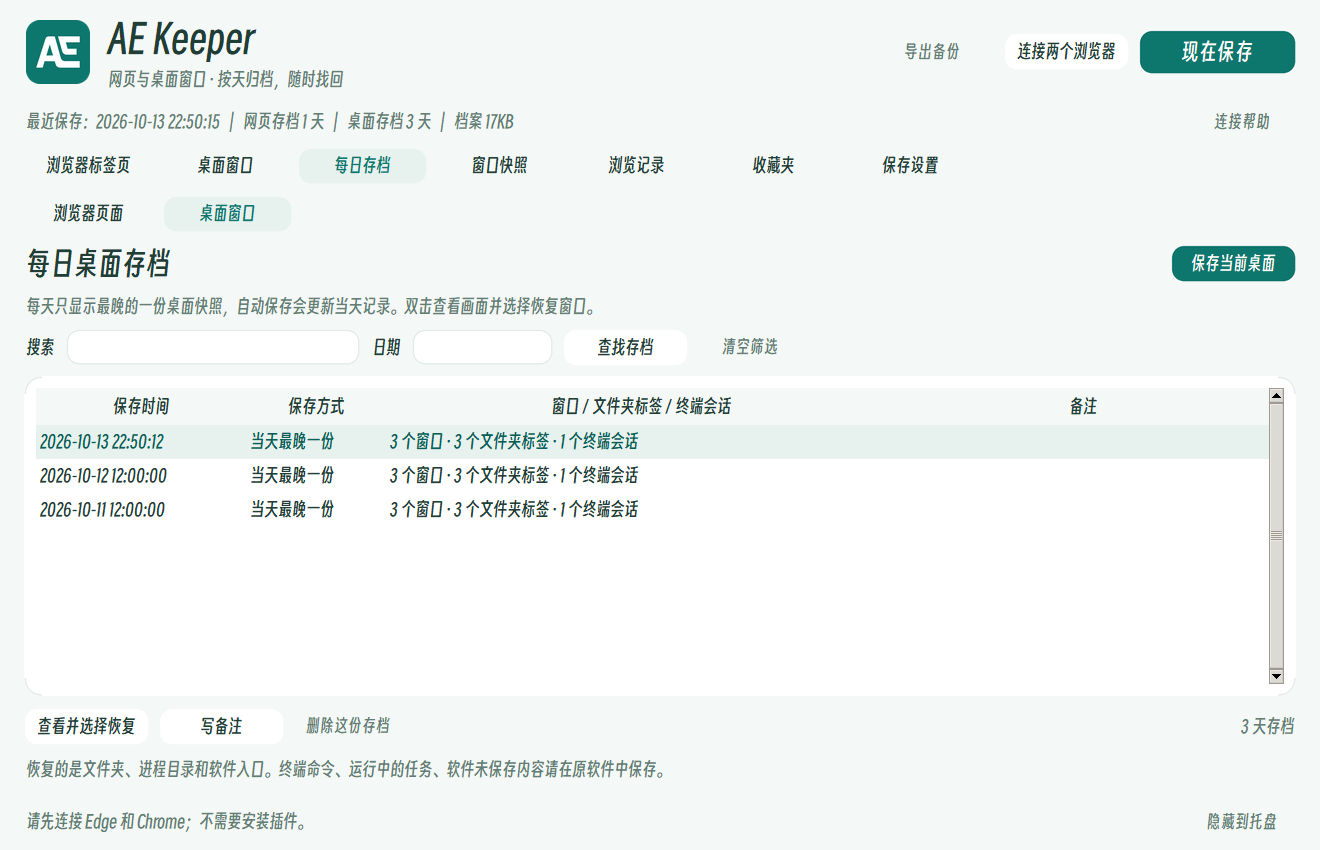
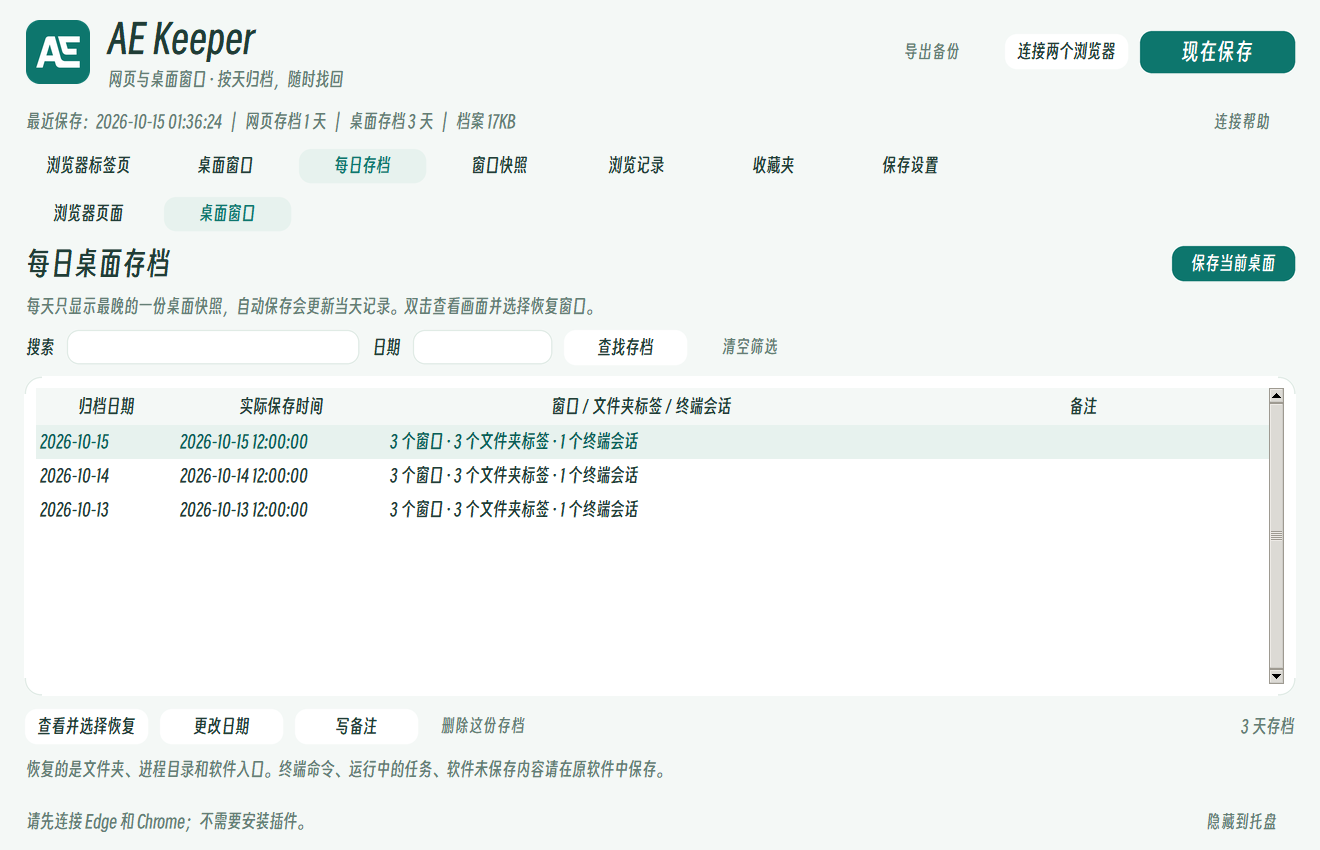
Allow changing daily archive dates without altering capture timestamps

diff --git a/tests/test_archive_dates.py b/tests/test_archive_dates.py
@@ -1,0 +1,113 @@
+import datetime as dt
+import json
+from pathlib import Path
+import sys
+import tempfile
+import unittest
+from unittest.mock import patch
+sys.path.insert(0, str(Path(__file__).resolve().parents[1]))
+from storage import Archive, day_key
+from workspace_model import demo_workspace
+
+
+class ArchiveDateTests(unittest.TestCase):
+    def setUp(self):
+        self.temp = tempfile.TemporaryDirectory(); self.a = Archive(self.temp.name)
+        today = dt.date.today()
+        self.today = today.isoformat()
+        self.yesterday = (today - dt.timedelta(days=1)).isoformat()
+        self.stamp = dt.datetime.combine(today, dt.time(0, 15)).timestamp()
+        self.tabs = [dict(browser=b, window=str(i), target=str(i), title='示例网页', url=f'https://example.com/{i}')
+                     for i, b in enumerate(('Edge', 'Chrome'))]
+
+    def tearDown(self):
+        self.a.db.close(); self.temp.cleanup()
+
+    def browser(self, stamp):
+        with patch('storage.time.time', return_value=stamp):
+            self.a.capture(self.tabs, ['Chrome', 'Edge'])
+
+    def test_browser_date_move_preserves_times_ids_notes_and_automatic_save(self):
+        self.browser(self.stamp)
+        entry = self.a.listing('daily')[0]
+        self.a.note('daily_entry', entry['entry_id'], '凌晨补存')
+        self.a.move_daily('daily', entry['entry_id'], self.yesterday)
+        moved = self.a.listing('daily')[0]
+        self.assertEqual((moved['day'], moved['time'], moved['entry_id'], moved['note']),
+                         (self.yesterday, self.stamp, entry['entry_id'], '凌晨补存'))
+        self.browser(self.stamp + 60)
+        self.assertEqual(len(self.a.listing('daily')), 2)
+        self.assertEqual(self.a.listing('daily', day=self.yesterday)[0]['time'], self.stamp)
+        self.assertEqual(self.a.listing('snapshots')[0]['day'], self.today)
+        path = Path(self.temp.name) / 'browser-backup.json'; self.a.export(path)
+        other = Archive(Path(self.temp.name) / 'browser-import')
+        try:
+            other.import_backup(path)
+            restored = other.listing('daily', day=self.yesterday)[0]
+            self.assertEqual((restored['time'], restored['note']), (self.stamp, '凌晨补存'))
+        finally:
+            other.db.close()
+
+    def test_move_browser_primary_to_existing_day_keeps_both_dates_other_entries(self):
+        self.browser(self.stamp - 86400)
+        target = self.a.listing('daily')[0]['entry_id']
+        self.browser(self.stamp)
+        snap = self.a.listing('snapshots')[0]
+        self.a.add_daily(snap['id'], self.today, mode='append')
+        # Add a different manual candidate to the source folder.
+        self.tabs[0]['title'] = '另一个网页'
+        self.browser(self.stamp + 30)
+        new_snap = self.a.listing('snapshots')[0]
+        candidate = self.a.add_daily(new_snap['id'], self.today, mode='append')
+        source = self.a.listing('daily', day=self.today)[0]
+        self.a.move_daily('daily', source['entry_id'], self.yesterday)
+        moved = self.a.listing('daily', day=self.yesterday)[0]
+        self.assertEqual(moved['entry_id'], source['entry_id'])
+        self.assertIn(target, [r['entry_id'] for r in moved['children']])
+        self.assertEqual(self.a.listing('daily', day=self.today)[0]['entry_id'], candidate)
+        self.browser(self.stamp - 86400 + 120)
+        self.assertEqual(self.a.daily_entry(target)['time'], self.stamp - 86400)
+        self.assertEqual(self.a.daily_entry(target)['origin'], 'manual')
+
+    def test_desktop_date_can_differ_from_capture_day_and_roundtrip(self):
+        self.a.capture_workspace(demo_workspace(), timestamp=self.stamp)
+        row = self.a.listing('workspace_daily')[0]
+        self.a.move_daily('workspace_daily', row['id'], self.yesterday)
+        moved = self.a.listing('workspace_daily')[0]
+        self.assertEqual((moved['day'], moved['time'], moved['payload']), (self.yesterday, self.stamp, row['payload']))
+        self.assertEqual(moved['origin'], 'manual')
+        self.a.capture_workspace(demo_workspace(), timestamp=self.stamp + 60)
+        self.assertEqual(len(self.a.listing('workspace_daily')), 2)
+        path = Path(self.temp.name) / 'backup.json'; self.a.export(path)
+        other = Archive(Path(self.temp.name) / 'imported')
+        try:
+            other.import_backup(path)
+            self.assertEqual(other.listing('workspace_daily', day=self.yesterday)[0]['time'], self.stamp)
+        finally:
+            other.db.close()
+
+    def test_invalid_move_does_not_change_existing_records(self):
+        self.browser(self.stamp)
+        before = self.a.listing('daily')
+        for day in ('2026-02-30', '20261014', '2026-1-1'):
+            with self.assertRaises(ValueError):
+                self.a.move_daily('daily', before[0]['entry_id'], day)
+        with self.assertRaises(ValueError):
+            self.a.move_daily('daily', 999999, self.yesterday)
+        self.assertEqual(self.a.listing('daily'), before)
+
+    def test_date_dialog_validates_and_can_cancel(self):
+        from archive_date import ask_archive_date
+        with patch('archive_date.simpledialog.askstring', side_effect=['2026-02-30', self.yesterday]), patch('archive_date.messagebox.showerror') as error:
+            self.assertEqual(ask_archive_date(None, self.today), self.yesterday)
+            error.assert_called_once()
+        with patch('archive_date.simpledialog.askstring', return_value=None):
+            self.assertIsNone(ask_archive_date(None, self.today, desktop=True))
+
+    def test_desktop_daily_orders_by_assigned_day_after_date_move(self):
+        self.a.capture_workspace(demo_workspace(), timestamp=self.stamp - 86400)
+        old = self.a.listing('workspace_daily')[0]
+        self.a.capture_workspace(demo_workspace(), timestamp=self.stamp)
+        future = (dt.date.today() + dt.timedelta(days=1)).isoformat()
+        self.a.move_daily('workspace_daily', old['id'], future)
+        self.assertEqual(self.a.listing('workspace_daily', limit=1)[0]['day'], future)

diff --git a/storage.py b/storage.py
@@ -1,6 +1,7 @@
 import datetime as dt
 import hashlib
 import json
+import math
 import sqlite3
 import time
 from pathlib import Path
@@ -313,6 +314,41 @@ class Archive:
             self._set_primary(row[0], eid)
             self._daily_capacity()
 
+    def move_daily(self, view, rid, day):
+        """Change the archive date, keeping capture times and content intact."""
+        self._valid_day(day)
+        with self.db:
+            if view == 'workspace_daily':
+                row = self.db.execute('SELECT day FROM workspaces WHERE id=?', (rid,)).fetchone()
+                if not row:
+                    raise ValueError('这份桌面存档已不存在。')
+                if row[0] != day:
+                    # A moved snapshot is intentional; the next automatic save
+                    # must create its own row rather than overwrite this one.
+                    self.db.execute("UPDATE workspaces SET day=?,origin='manual' WHERE id=?", (day, rid))
+                return
+            if view != 'daily':
+                raise ValueError('只能更改每日存档的日期。')
+            row = self.db.execute('SELECT day FROM daily_entries WHERE id=?', (rid,)).fetchone()
+            if not row:
+                raise ValueError('这份浏览器存档已不存在。')
+            source = row[0]
+            if source == day:
+                return
+            root = self.db.execute('SELECT primary_entry,primary_locked FROM daily_archives WHERE day=?', (source,)).fetchone()
+            self.db.execute("UPDATE daily_entries SET day=?,origin='manual' WHERE id=?", (day, rid))
+            if root and root[0] == rid:
+                alternative = self.db.execute('SELECT id FROM daily_entries WHERE day=? ORDER BY last_seen DESC,id DESC LIMIT 1', (source,)).fetchone()
+                if alternative:
+                    self._set_primary(source, alternative[0], bool(root[1]))
+                else:
+                    self.db.execute('DELETE FROM daily_archives WHERE day=?', (source,))
+            target = self.db.execute('SELECT primary_entry FROM daily_archives WHERE day=?', (day,)).fetchone()
+            if target:
+                self.db.execute("UPDATE daily_entries SET origin='manual' WHERE id=?", (target[0],))
+            self._set_primary(day, rid, True)
+            self._daily_capacity()
+
     def _daily_capacity(self):
         if self.bytes('daily_archives') + self.bytes('snapshots') > self.settings()['limit_mb'] * 1048576 * .5:
             raise ValueError('快照容量不足，本次操作已回滚，请先提高容量上限。')
@@ -366,7 +402,8 @@ class Archive:
         if view in ('workspaces', 'workspace_daily'):
             if limit <= 0:
                 return []
-            rows = self.db.execute('SELECT id,day,last_seen,CAST(payload AS BLOB) AS reference,note,origin FROM workspaces ORDER BY last_seen DESC,id DESC').fetchall()
+            order = 'day DESC,last_seen DESC,id DESC' if view == 'workspace_daily' else 'last_seen DESC,id DESC'
+            rows = self.db.execute('SELECT id,day,last_seen,CAST(payload AS BLOB) AS reference,note,origin FROM workspaces ORDER BY ' + order).fetchall()
             result = []
             seen_days = set()
             for r in rows:
@@ -500,8 +537,8 @@ class Archive:
             for entry in workspaces:
                 day = str(entry['day']); self._valid_day(day)
                 stamp = float(entry['last_seen'])
-                if day != day_key(stamp):
-                    raise ValueError('工作现场日期不一致。')
+                if not math.isfinite(stamp) or stamp < 0:
+                    raise ValueError('桌面存档保存时间无效。')
                 payload = clean_workspace(json.loads(entry['payload']), imported=True)
                 data = json.dumps(payload, ensure_ascii=False)
                 note = str(entry.get('note', ''))[:2000]

diff --git a/workspace_pane.py b/workspace_pane.py
@@ -56,9 +56,11 @@ class WorkspacePane:
         ttk.Button(filters, text='查找存档', command=self.refresh).pack(side='left')
         ttk.Button(filters, text='清空筛选', style='Quiet.TButton', command=self.clear).pack(side='left', padx=8)
         body = ttk.Frame(self.frame, style='Rounded.TFrame', padding=12); body.pack(fill='both', expand=True)
-        self.tree = ttk.Treeview(body, columns=('time', 'mode', 'counts', 'note'), show='headings', selectmode='browse', height=2)
-        for col, title, width in [('time', '保存时间', 210), ('mode', '保存方式', 140),
-                                  ('counts', '窗口 / 文件夹标签 / 终端会话', 420), ('note', '备注', 280)]:
+        columns = ('day', 'time', 'counts', 'note') if daily else ('time', 'mode', 'counts', 'note')
+        self.tree = ttk.Treeview(body, columns=columns, show='headings', selectmode='browse', height=2)
+        headings = ([('day', '归档日期', 140), ('time', '实际保存时间', 210)] if daily else
+                    [('time', '保存时间', 210), ('mode', '保存方式', 140)])
+        for col, title, width in headings + [('counts', '窗口 / 文件夹标签 / 终端会话', 420), ('note', '备注', 280)]:
             self.tree.heading(col, text=title); self.tree.column(col, width=width, minwidth=100, stretch=col in ('counts', 'note'))
         scroll = ttk.Scrollbar(body, orient='vertical', command=self.tree.yview)
         self.tree.configure(yscrollcommand=scroll.set)
@@ -66,6 +68,8 @@ class WorkspacePane:
         self.tree.bind('<Double-1>', lambda event: self.preview())
         actions = ttk.Frame(self.frame); actions.pack(fill='x', pady=(12, 0))
         ttk.Button(actions, text='查看并选择恢复', command=self.preview).pack(side='left')
+        if daily:
+            ttk.Button(actions, text='更改日期', command=self.move_date).pack(side='left', padx=(10, 0))
         ttk.Button(actions, text='写备注', command=self.note).pack(side='left', padx=10)
         ttk.Button(actions, text='删除这份存档', style='Quiet.TButton', command=self.delete).pack(side='left')
         self.count = ttk.Label(actions, text='', style='Muted.TLabel'); self.count.pack(side='right')
@@ -88,6 +92,8 @@ class WorkspacePane:
             iid = str(row['id']); n, tabs, sessions = workspace_counts(row['payload'])
             values = (time_text(row['time']), '当天最晚一份' if self.daily else {'auto': '当天自动最新', 'previous': '上次运行保留', 'manual': '手动保留'}[row['origin']],
                       f'{n} 个窗口 · {tabs} 个文件夹标签 · {sessions} 个终端会话', row['note'])
+            if self.daily:
+                values = (row['day'], time_text(row['time']), values[2], row['note'])
             if self.tree.exists(iid):
                 self.tree.item(iid, values=values)
             else:
@@ -193,6 +199,16 @@ class WorkspacePane:
             if text is not None:
                 self.engine.submit('note', view='workspaces', id=row['id'], text=text)
                 self.refresh()
+
+    def move_date(self):
+        from archive_date import ask_archive_date
+        row = self.selected()
+        if not row:
+            self.message.set('请先选中一份每日桌面存档。')
+            return
+        day = ask_archive_date(self.frame, row['day'], desktop=True)
+        if day is not None and day != row['day']:
+            self.engine.submit('daily_move', view='workspace_daily', id=row['id'], day=day)
 
     def delete(self):
         from tkinter import messagebox

diff --git a/app.py b/app.py
@@ -189,6 +189,7 @@ class App:
         self.action_buttons = {}
         for key, title, command in [('open', '查看 / 打开', self.open_selected), ('restore', '恢复这个快照', self.restore),
                                      ('daily_add', '加入每日存档', self.add_daily), ('daily_primary', '设为当天主存档', self.primary_daily),
+                                     ('daily_move', '更改日期', self.move_daily),
                                      ('note', '写备注', self.note), ('delete', '删除这条档案', self.delete),
                                      ('expand', '展开所有窗口', lambda: self.expand_windows(True)),
                                      ('collapse', '收起所有窗口', lambda: self.expand_windows(False))]:
@@ -339,7 +340,7 @@ class App:
             if view == 'snapshots':
                 keys = ('open', 'daily_add', 'restore', 'note', 'delete')
             elif view == 'daily':
-                keys = ('open', 'daily_primary', 'restore', 'note', 'delete')
+                keys = ('open', 'daily_move', 'daily_primary', 'restore', 'note', 'delete')
             self.action_buttons['open'].configure(text='查看选中快照' if view == 'daily' else '查看快照' if view == 'snapshots' else '打开选中网页')
             self.action_buttons['restore'].configure(text='恢复选中网页' if view == 'daily' else '恢复这个快照')
         for key in keys:
@@ -528,6 +529,16 @@ class App:
         if self.view=='daily' and row:
             self.engine.submit('daily_primary',entry_id=row['entry_id'])
 
+    def move_daily(self):
+        from archive_date import ask_archive_date
+        row = self.selected()
+        if self.view != 'daily' or not row:
+            self.message_var.set('请先选中一份每日存档。')
+            return
+        day = ask_archive_date(self.root, row['day'], desktop=False)
+        if day is not None and day != row['day']:
+            self.engine.submit('daily_move', view='daily', id=row['entry_id'], day=day)
+
     def selected(self):
         if self.view == 'tabs':
             return self.browser_panes[self.active_browser].selected() if self.active_browser else None
@@ -702,6 +713,15 @@ class App:
                     self.message_var.set(f"已请求恢复 {event['opened']} 组工作窗口。")
                     if event['messages']:
                         messagebox.showinfo('桌面窗口恢复结果', '\n'.join(event['messages'])[:12000], parent=self.root)
+                elif kind == 'archive_moved':
+                    if event['view'] == 'workspace_daily':
+                        self.daily_workspace_pane.query.set('')
+                        self.daily_workspace_pane.day.set(event['day'])
+                    else:
+                        self.search_var.set(''); self.day_var.set(event['day'])
+                        self.pending_daily_selection = 'day:' + event['day']
+                    if self.view == event['view']:
+                        self.refresh()
                 elif kind == 'daily_changed':
                     self.pending_daily_selection='day:'+event['day']
                     if not event.get('primary'):

diff --git a/archive_date.py b/archive_date.py
@@ -1,0 +1,23 @@
+"""Archive dates are user labels, independent of actual capture timestamps."""
+import datetime as dt
+from tkinter import simpledialog, messagebox
+
+
+def ask_archive_date(parent, current, desktop=False):
+    yesterday = (dt.date.today() - dt.timedelta(days=1)).isoformat()
+    detail = ('目标日期已有桌面存档时，保留所有原快照，每日列表显示实际保存时间最晚的一份。'
+              if desktop else '只移动选中的这一份，原日期的其他快照保留。目标日期已有存档时，移入的快照设为主存档，原快照保留为子项。')
+    while True:
+        value = simpledialog.askstring('更改归档日期',
+            f'当前归档日期：{current}\n实际保存时间和内容不会改变。\n{detail}\n\n输入日期（YYYY-MM-DD），例如昨天 {yesterday}：',
+            initialvalue=current, parent=parent)
+        if value is None:
+            return None
+        value = value.strip()
+        try:
+            if dt.date.fromisoformat(value).isoformat() != value:
+                raise ValueError()
+        except ValueError:
+            messagebox.showerror('日期格式不正确', '请填写有效日期，例如 2026-10-14。', parent=parent)
+            continue
+        return value

diff --git a/engine.py b/engine.py
@@ -306,6 +306,10 @@ class Engine(threading.Thread):
             self.archive.add_daily(values['id'], values['day'], values['mode'])
             self.emit('daily_changed', day=values['day'])
             self.emit('message', text='已加入每日存档。主存档已固定，原有快照仍保留。')
+        elif action == 'daily_move':
+            self.archive.move_daily(values['view'], values['id'], values['day'])
+            self.emit('archive_moved', view=values['view'], day=values['day'])
+            self.emit('message', text=f"已归档到 {values['day']}，实际保存时间和快照内容已保留。")
         elif action == 'daily_primary':
             self.archive.primary_daily(values['entry_id'])
             self.emit('daily_changed', day=self.archive.daily_entry(values['entry_id'])['day'], primary=True)

diff --git a/README.md b/README.md
@@ -8,7 +8,7 @@ AE 系列中的网页保存工具。一个 Windows 桌面软件同时保存 Edge
 
 采用海松绿与浅薄荷白配色，沿用 AE 系列标识；应用内使用得意黑。Windows 11 支持圆角窗口与 Acrylic 标题栏。
 
-当前版本：**0.5.1**。适用于 Windows，采用 MIT 许可证。
+当前版本：**0.5.2**。适用于 Windows，采用 MIT 许可证。
 
 ![AE Keeper 演示界面](docs/images/app-preview.png)
 
@@ -65,6 +65,10 @@ python -m venv .venv
 每天自动更新一份最新的完整 Edge + Chrome 快照。在“窗口快照”中选中历史快照，可以把它加入指定日期的每日文件夹，选择替换主存档或额外保留。
 
 只有一份时直接显示；有多份时展开日期，查看其他快照并设置主存档。手动指定的主存档不会被后续自动保存覆盖。恢复时按浏览器和窗口打开可用的网页网址；登录状态、标签组和固定标签页不保证还原。
+
+### 更改归档日期
+
+在每日存档的“浏览器页面”或“桌面窗口”中选中一份，点击“更改日期”，输入 YYYY-MM-DD，例如凌晨补存后改到昨天。只修改归档日期，实际保存时间和内容保留；浏览器主存档被移走时，原日期的其他快照继续保留。移入已有日期的浏览器快照设为主存档，原快照成为子项；桌面每日列表继续按实际保存时间选最晚的一份。移动后的记录转为手动保留，后续自动保存不会就地覆盖；导出、导入同样保留自定日期。
 
 ## 数据与兼容性
 
